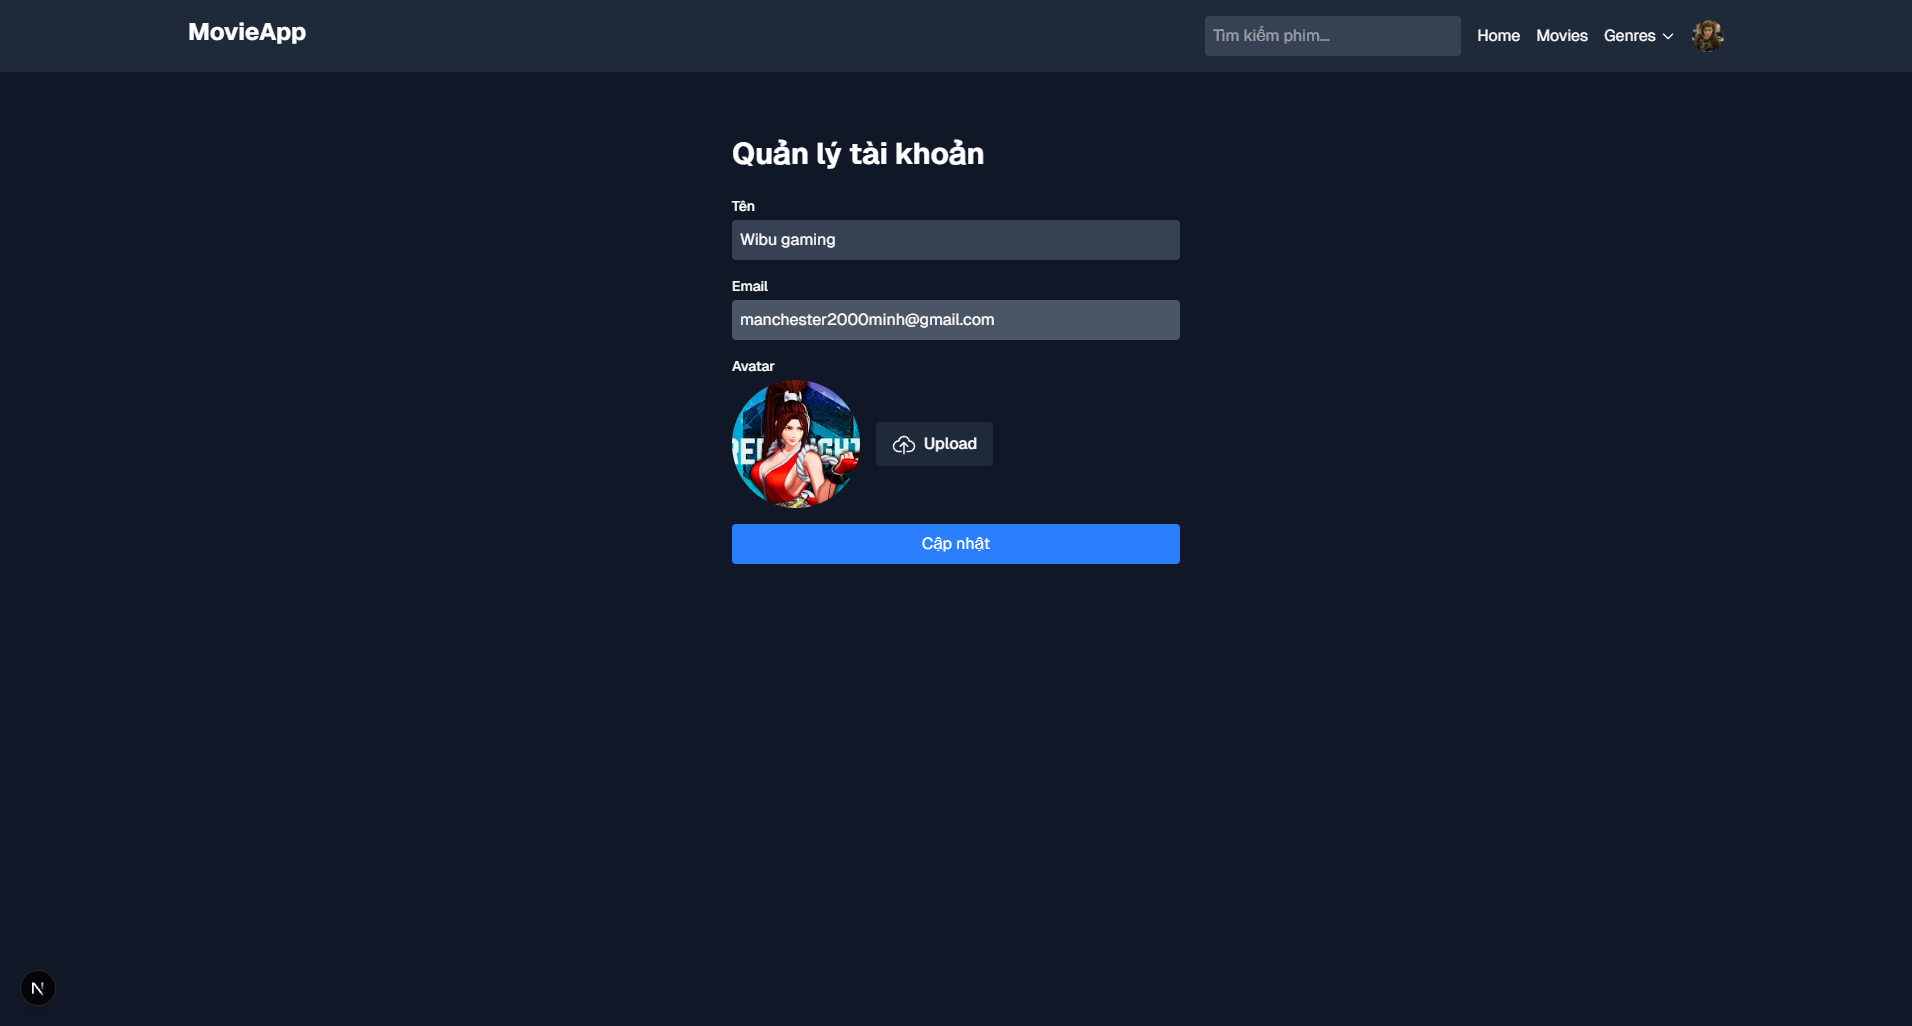
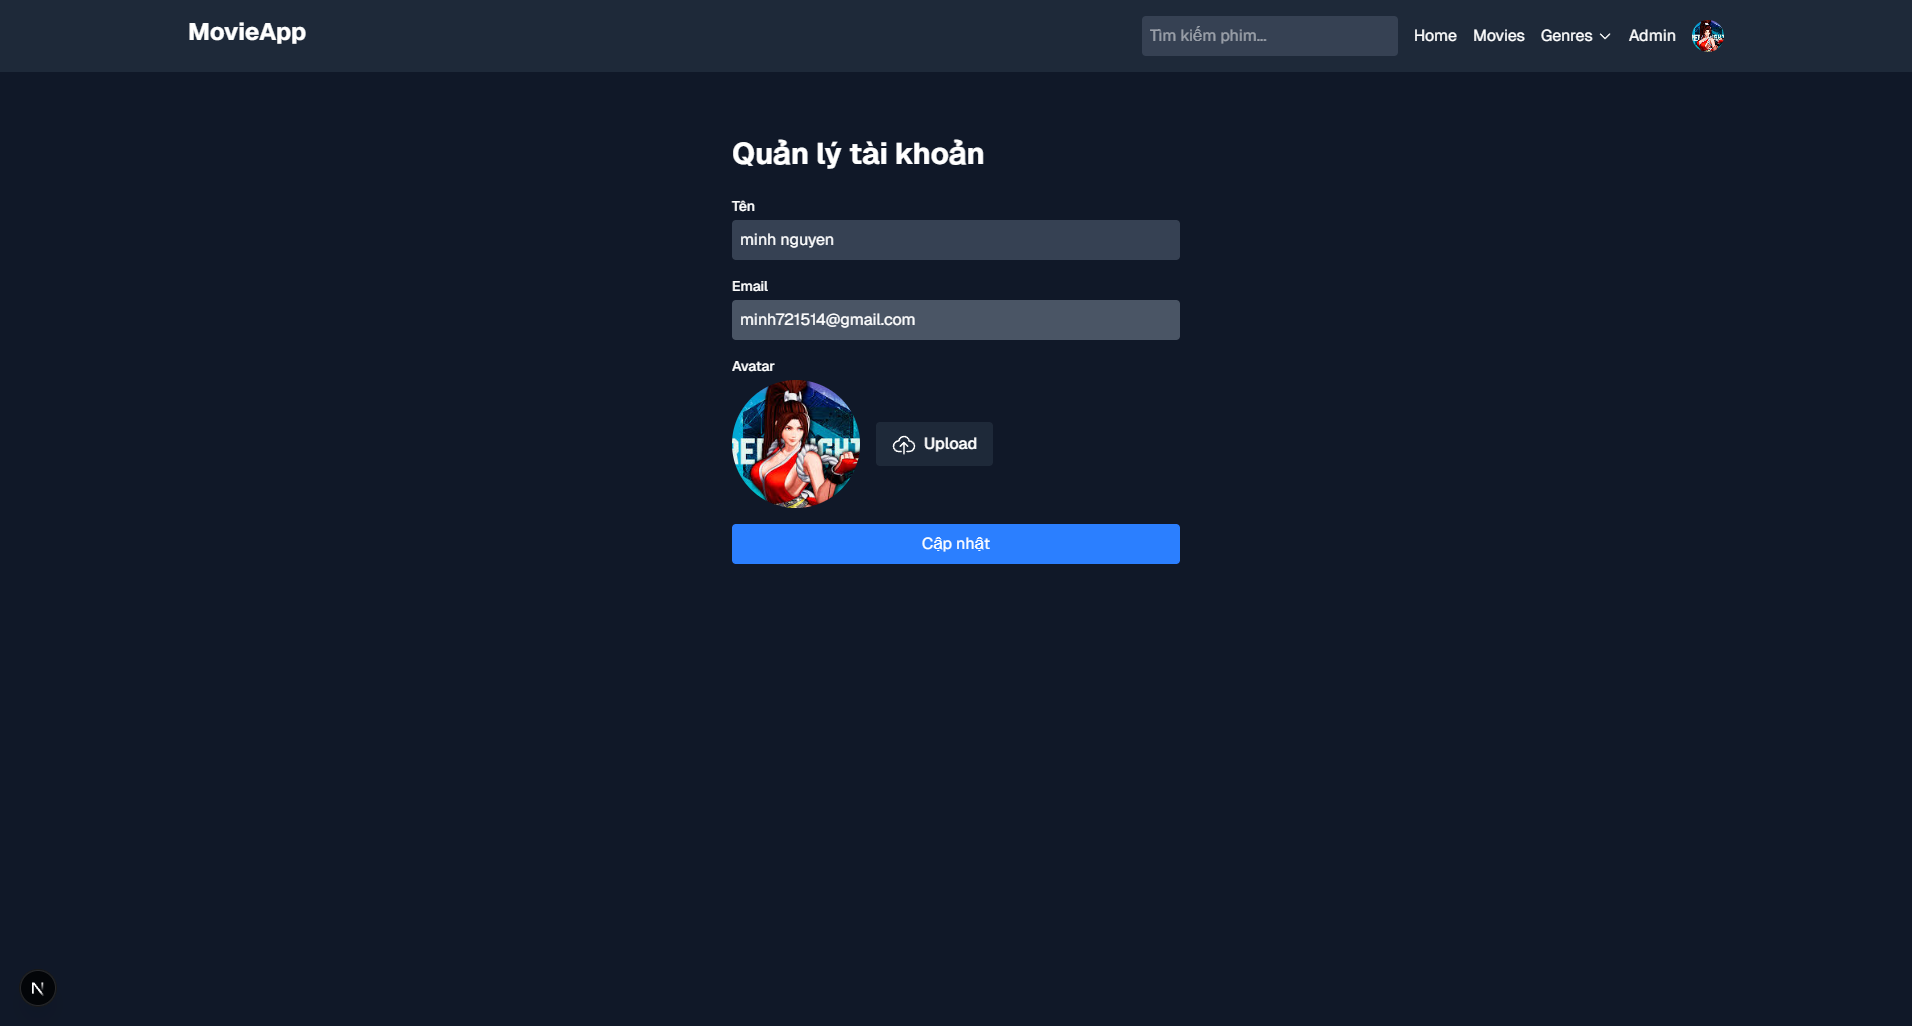
minor change

diff --git a/src/app/_components/topNav.tsx b/src/app/_components/topNav.tsx
@@ -28,12 +28,15 @@ export default function Navbar() {
 
     const dropdownRef = useRef<HTMLDivElement>(null);
 
-    const isAdmin = session?.user?.roleId === 2;
+    const isAdmin = session?.user?.roleId === 1;
 
     const { data: searchResults = [], refetch } = api.movies.searchMovies.useQuery(
         { query: searchQuery },
         { enabled: false }
     );
+
+    // Lấy thông tin người dùng
+    const { data: userData } = api.user.getUser.useQuery()
 
     // Lấy danh sách genres từ tRPC
     const { data: genres } = api.movies.getGenres.useQuery();
@@ -166,7 +169,7 @@ export default function Navbar() {
                         Movies
                     </Link>
                     {/* Dropdown thể loại */}
-                    <div className="relative">
+                    <div className="relative" ref={dropdownRef}>
                         <button
                             onClick={() => setIsDropdownOpen(!isDropdownOpen)}
                             className="hover:text-gray-300 flex items-center gap-1 cursor-pointer"
@@ -214,9 +217,9 @@ export default function Navbar() {
                                 onClick={() => setIsUserDropdownOpen(!isUserDropdownOpen)}
                                 className="flex items-center gap-2 cursor-pointer"
                             >
-                                {session.user.image ? (
+                                {userData?.image ? (
                                     <img
-                                        src={session.user.image}
+                                        src={userData?.image}
                                         alt="Avatar"
                                         className="w-8 h-8 rounded-full object-cover"
                                     />
@@ -229,7 +232,7 @@ export default function Navbar() {
                             {isUserDropdownOpen && (
                                 <div className="absolute top-full right-0 bg-gray-700 rounded shadow-lg mt-2 z-50 w-48">
                                     <div className="truncate p-2">
-                                        Xin chào <span className="italic"> {" "}{session.user.name ?? session.user.email}</span>
+                                        Xin chào <span className="italic"> {" "}{userData?.name ?? userData?.email}</span>
                                     </div>
                                     <hr className="opacity-30"></hr>
                                     <Link
@@ -287,7 +290,7 @@ export default function Navbar() {
                     <Link href="/movies" className="block hover:text-gray-300">
                         Movies
                     </Link>
-                    <div>
+                    <div ref={dropdownRef}>
                         <button
                             onClick={() => setIsDropdownOpen(!isDropdownOpen)}
                             className="block hover:text-gray-300 w-full text-left"

diff --git a/src/server/api/routers/comments.ts b/src/server/api/routers/comments.ts
@@ -162,7 +162,7 @@ export const commentsRouter = createTRPCRouter({
     .input(z.object({ commentId: z.number() }))
     .mutation(async ({ ctx, input }) => {
       const userId = ctx.session.user.id;
-      const isAdmin = ctx.session.user.roleId === 2;
+      const isAdmin = ctx.session.user.roleId === 1;
 
       const comment = await db
         .select()
@@ -187,7 +187,7 @@ export const commentsRouter = createTRPCRouter({
     .input(z.object({ replyId: z.number() }))
     .mutation(async ({ ctx, input }) => {
       const userId = ctx.session.user.id;
-      const isAdmin = ctx.session.user.roleId === 2;
+      const isAdmin = ctx.session.user.roleId === 1;
 
       const reply = await db
         .select()

diff --git a/src/app/user/account/page.tsx b/src/app/user/account/page.tsx
@@ -92,7 +92,6 @@ export default function AccountPage() {
                 `https://api.cloudinary.com/v1_1/${process.env.NEXT_PUBLIC_CLOUDINARY_CLOUD_NAME}/image/upload`,
                 formData).then(
                     (res) => {
-                        // Giả lập upload: Trong thực tế, bạn sẽ gửi file lên server hoặc dịch vụ lưu trữ
                         avatarUrl = res.data.secure_url; // Thay bằng URL thực tế sau khi upload
                     }
                 ).catch((e) => {
